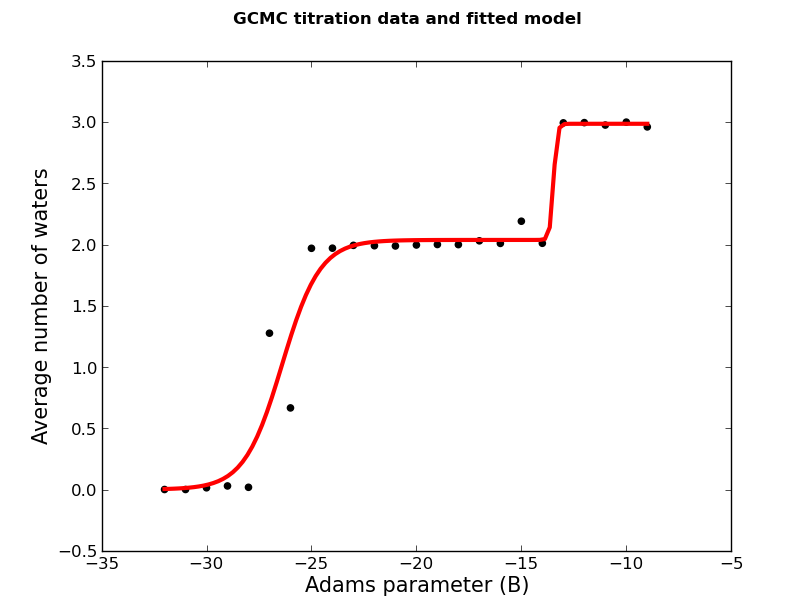
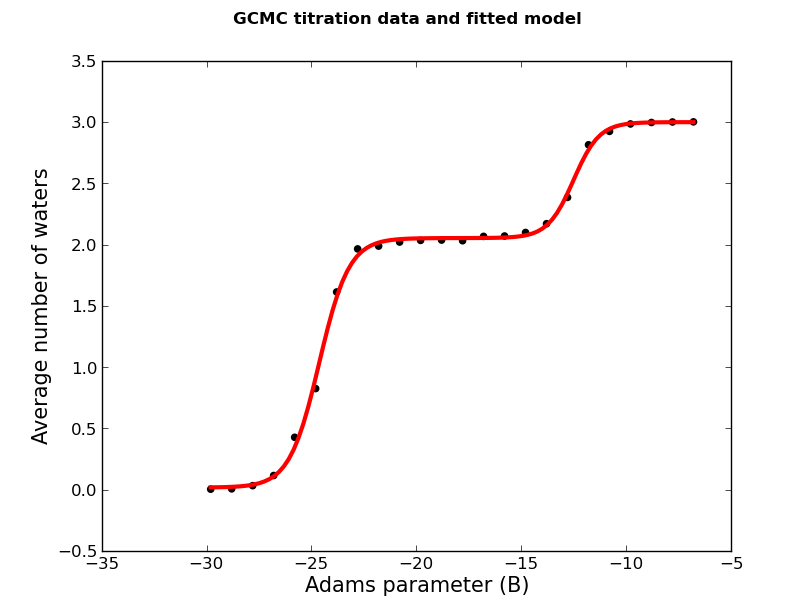
gcmc tutorial2 updated

Changed region(s): [[0.3695, 0.1863, 0.8621, 0.5588], [0.3079, 0.4967, 0.4002, 0.7761], [0.1847, 0.7451, 0.3387, 0.8072]]

diff --git a/tutorial/gcmc_binding_network/gcmc_titration.html b/tutorial/gcmc_binding_network/gcmc_titration.html
@@ -19,26 +19,34 @@ The protein has already been protonated and the atoms names have translated to t
 <h5>Setup</h5>
 Before running GCMC, you must carefully select the region where you'd like to perform GCMC. During the simulations, waters will be inserted and deleted within that region, and the free energy to add or remove waters can be calculated using grand canonical integration. Therefore, you should make sure the GCMC region covers the volume you're interested in. 
 <p>
-In <code>protein_pms.pdb</code>, a box centred at (32, 6.6, 1.7) whose sides have lengths (5.2, 5.0, 8.8) encompasses a small cavity. The aim is to use GCMC to calculate the total affinity of water for that site. We can create a box to these specifications by typing
+In <code>protein_pms.pdb</code>, a box centred at (31.5, 7.0, 2.0) whose sides have lengths (5.0, 4.0, 8.0) encompasses a small cavity. The aim is to use GCMC to calculate the total affinity of water for that site. We can create a box to these specifications by typing
 
 <p>
-<pre>python2.7 $PROTOMSHOME/tools/make_gcmcbox.py -b 32 6.6 1.7 5.2 5.0 8.8 -o gcmc_box.pdb</pre>
+<pre>python2.7 $PROTOMSHOME/tools/make_gcmcbox.py -b 31.5 7.0 2.0 5.0 4.0 8.0 -o gcmc_box.pdb</pre>
+<p>
+
+This creates a file called <code>gcmc_box.pdb</code> while outputting:
+<p>
+<pre>
+Volume of GCMC box: 160.0
+Bequil: -8.8
+</pre>
+<p>
+We need to know the volume of the GCMC box later for analysis, but will use <em>B<sub>equil</sub></em> to set up the simulation. <em>B<sub>equil</sub></em> is calculated using:
+<p>
+     <em>B<sub>equil</sub></em> = <em>&beta;&mu;'</em><sub>hyd</sub> + <em>ln(V/V<sup>o</sup>)</em>,
+<p>
+where <em>B<sub>equil</sub></em> is the Adams value that produces the equilibrium number of waters for the system. <em>&mu;'</em><sub>hyd</sub> is the excess chemical potential of bulk water, which is the hydration free energy of a single water molecule. In ProtoMS, previous analysis has found that <em>&mu;'</em><sub>hyd</sub> equals -6.2 kcal/mol. As the region specified by <code>gcmc_box.pdb</code> has a volume of 160 <span>&#8491;</span><sup>3</sup>, the above equation gives <em>B<sub>equil</sub></em> to be -8.8.
 <p>
 The box we've just created and the small cavity in the protein look like:<br>
 <img src="box.png" width="%" height="40%" alt="" /><br>
 <p>
 The figure shows a slice through the surface of the protein, and <code>gcmc_box.pdb</code> encompassing the small, sock-like cavity we're interested in.
 <p>
-As we wish to completely bind water to the volume specified by <code>gcmc_box.pdb</code>, we must run a series of GCMC simulations at different chemical potentials (Adams value in ProtoMS), within which the average number of inserted waters ranges from 0 to the number of waters that would occur if the subregion were allowed to exchange molecules with bulk water. A good low Adams value to start with is around -35. To estimate the highest Adams value, we'll need the relation 
+As we wish to completely bind water to the volume specified by <code>gcmc_box.pdb</code>, we must run a series of GCMC simulations at different chemical potentials (Adams value in ProtoMS), within which the average number of inserted waters ranges from 0 to the equilibrium number of waters for the system. As we know <em>B<sub>equil</sub></em> is -8.8, we want to chose a range of waters which encompasses this value towards its higher end. We will chose a range of -6.8 to -29.8, which will generate 24 B values. 
 <p>
-     <em>B*</em> = <em>&mu;'</em><sub>hyd</sub> + ln &lsaquo;<em>N*</em>&rsaquo;,
-<p>
-where <em>B*</em> is the Adams value that produces the equilibrium average number of waters &lsaquo;<em>N*</em>&rsaquo; and <em>&mu;'</em><sub>hyd</sub> is the excess chemical potential of bulk water, which is the hydration free energy of a single water molecule. In ProtoMS, previous analysis has found that <em>&mu;'</em><sub>hyd</sub> approximately equals -6.2 kcal/mol. Thus, all we need to do is guess a maximum value of &lsaquo;<em>N*</em>&rsaquo; to get an upper Adams value. As the region specified by <code>gcmc_box.pdb</code> can accommodate a maximum of about 5 waters, the above equations implies that <em>B*</em> &le; -8.  
 
-<p>
-Twenty-four cores were at our disposal for this tutorial. Therefore, we'll run GCMC simulations with Adams values at every integer between and including -32 and -9. To set-up the GCMC simulations, all we need to type is
-
-<pre>python2.7 $PROTOMSHOME/protoms.py -s gcmc -sc protein_pms.pdb --gcmcbox gcmc_box.pdb --adamsrange -32 -9</pre>
+<pre>python2.7 $PROTOMSHOME/protoms.py -s gcmc -sc protein_pms.pdb --gcmcbox gcmc_box.pdb --adams -29.8 -28.8 -27.8 -26.8 -25.8 -24.8 -23.8 -22.8 -21.8 -20.8 -19.8 -18.8 -17.8 -16.8 -15.8 -14.8 -13.8 -12.8 -11.8 -10.8 -9.8 -8.8 -7.8 -6.8</pre>
 
 This has automatically solvated our protein in a droplet of water (<code>water.pdb</code>) by randomly placing waters up to bulk density. Any solvent water that was placed inside <code>gcmc_box.pdb</code> has been removed to create <code>water_clr.pdb</code>.
 
@@ -51,111 +59,117 @@ To run the simulation, you need 24 cores and MPI. Execute by typing
 <h5>Analysis</h5>
 It is vital that you check the simulations by eye. If you have Pymol, you can check the output structures from one of the GCMC simulations by typing
 
-<pre> pymol out_gcmc/b_-9.000/all.pdb </pre>
+<pre> pymol out_gcmc/b_-8.800/all.pdb </pre>
 
 Check your <code>warning</code> files as well to make sure nothing untoward has happened.
 <p>
 
 Before calculating occupancies and free energies with grand canonical integration, we should check to see if the simulations are approximately equilibrated. For one simulation, we can see the average number of inserted GCMC waters for each snapshot by typing
 
-<pre>python2.7 $PROTOMSHOME/tools/calc_series.py -f out_gcmc/b_-9.000/results -s solventson </pre> 
+<pre>python2.7 $PROTOMSHOME/tools/calc_series.py -f out_gcmc/b_-8.800/results -s solventson </pre> 
 
 This would have produced an estimate for the start of the equilibrated period. Check to see if that value matches what you see in the graph that gets automatically plotted.
 <p>
 For the rest of this analysis, we'll focus on the script <code>calc_gci.py</code> which contains a lot of functionality. To see how the average number of waters varies with the applied chemical potential - in other words, a titration - type
 
 
-<pre>python2.7 $PROTOMSHOME/tools/calc_gci.py -d out_gcmc/b_-* -p titration </pre> 
+<pre>python2.7 $PROTOMSHOME/tools/calc_gci.py -d out_gcmc/b_-* -p titration  </pre> 
 
 Depending on what you found with <code>calc_series.py</code>, you can discard the first <code>X</code> snapshots of each simulation by additing the flag <code>--skip X</code>. The titration plot should look something like<br>
 
 <img src="gcmc_titration.png" width="%" height="50%" alt="" /><br>
 <p>
-
 The plot shows that the average number of waters at each Adams value occurs in 'steps', which is characteristic of all GCMC titration plots. Unlike the case when GCMC is performed on a cavity that can only bind a single water molecule (like <a href="../gcmc_single/gcmc_binding_calc.html">here</a>), the points of inflection of these steps do no necessarily correspond to free energies. As demonstrated in  <em>G. A. Ross et. al, Journal of the American Chemical Society, 2015</em>, it's actually the area under the titration curve that is related to the free energy to transfer water from ideal gas to the simulated system. 
 <p>
 To calculate the area under the titration curve, it is prudent to smooth over the data. The script <code>calc_gci.py</code> can fit a curve by modelling the titration data as sum of logistic functions, which is equivalent to a very simple type of artificial neural network (ANN). As the titration data shows what looks like 2 steps, we can input that into the model. To calculate the fit with 2 steps and plot it, type
 
-<pre>python2.7 $PROTOMSHOME/tools/calc_gci.py -d out_gcmc/b_-* -p fit -c fit --steps 2 </pre> 
+<pre>python2.7 $PROTOMSHOME/tools/calc_gci.py -d out_gcmc/b_-* -p fit -c fit --steps 2 -v 160</pre>
 
+Where <code>-v</code> is the volume of the GCMC region given by the <code>make_gcmcbox.py</code> script. This can also be calculated by looking at the <code>gcmc_box.pdb</code> file and determining the volume from the length of the x, y and z dimension. 
+<p>
 The result looks like<br>
 
 <img src="gcmc_fitted_titration.png" width="%" height="50%" alt="" /><br>
 <p>
+The line of best fit is shown in red. The fit correctly captures the shape of the titration data, and looks to be a good fit to all the data points. 
 
-The line of best fit is shown in red. The fit correctly captures the shape of the titration data, and looks good except for the plateau at 2 water molecules; the data point at B=-15 seems to have pulled the fitted plateau slightly higher than one would intuitively expect. This results from the fact the ANN was optimised by minimising the mean squared error, which is notorious for being overly influenced by outliers. We can try to improve the fit by trying to optimise a different "cost" function. The pseudo-Huber cost function puts less weight on outliers at the expense of an additional free parameter, denoted <em>c</em>. To use the pseudo-Huber cost function and to set <em>c</em>=0.1, we type
+To calculate the binding free energies of adding water to the cavity, type
 
-
-<pre>python2.7 $PROTOMSHOME/tools/calc_gci.py -d out_gcmc/b_-* -p fit -c fit --steps 2  --fit_options "cost huber c 0.1" </pre> 
-
-The new fit looks like this<br>
-
-<img src="gcmc_fitted_titration_huber.png" width="%" height="50%" alt="" /><br>
-<p>
-
-The fit is qualitatively similar to when mean squared error was used as the cost function, but the plateau at  &lsaquo;<em>N</em>&rsaquo;=2 is more cleanly represented. We'll ascertain whether the different fitting options will <em>quantitatively</em> affect the calculated free energies below.
-
-<p>
-
-To calculate the binding free energies of adding water to the cavity with the chosen fitted parameters, type
-
-<pre>python2.7 $PROTOMSHOME/tools/calc_gci.py -d out_gcmc/b_-* -c pmf --steps 2  --fit_options "cost huber c 0.1" </pre> 
+<pre>python2.7 $PROTOMSHOME/tools/calc_gci.py -d out_gcmc/b_-* -c pmf --steps 2 -v 160</pre> 
 
 where <code>-c pmf</code> indicates that the 'potential of mean force', i.e. the free energy, will be calculated. This will bring up a table like this one:
 
 <pre>
+FREE ENERGIES:
+  Quoted errors are from multiple repeats of the fitting.
           |----------------------IDEAL GAS TRANSFER FREE ENERGIES--------------------|   |-BINDING FREE ENERGIES-|
 '# Waters' 'Mean'  'Std. dev.'  '25th Percentile'       'Median'      '75th Percentile'    'Mean'        'Median'
   0.00      0.00      0.00            0.00                0.00               0.00            0.00           0.00
-  1.00    -16.07      0.15          -16.13              -16.12             -16.10           -9.87          -9.92
-  2.00    -31.57      0.15          -31.64              -31.61             -31.59          -19.17         -19.21
-  3.00    -40.30      0.18          -40.39              -40.32             -40.30          -21.70         -21.72
+  1.00    -16.24      0.01          -16.24              -16.24             -16.23          -10.04         -10.04
+  2.00    -31.33      0.01          -31.33              -31.33             -31.32          -18.93         -18.93
+  3.00    -40.01      0.01          -40.01              -40.01             -40.00          -21.41         -21.41
 </pre>
-
-The table shows the free energy (in kcal/mol) to transfer water from ideal gas (<code>IDEAL GAS TRANSFER FREE ENERGIES</code>) and from bulk water (<code>BINDING FREE ENERGIES</code>) to the GCMC box. The script <code>calc_gci.py</code> actually fits the ANN several times from different initial parameter values. The free energies are calculated for each fit, and from the ensemble of the calculated free energies the mean, standard deviation (<code>Std. dev</code>), and the 25th, 50th (<code>Median</code>), and 75th percentiles are calculated. When the titration data is particularly noisy, the median free energy is a more robust measure of the average free energy than the mean. The table indicates that the free energy to bind three waters from bulk water is -21.7 +/- 0.18 kcal/mol. 
 <p>
-If the ANN was fitted by minimising the mean-squared error, the calculated binding free energy for this example would be -21.9 +/- 0.0 kcal/mol. While only 0.2 kcal/mol off the value calculated with the pseudo-Huber cost function, the error estimate (0.0 kcal/mol) is woeful. A way to estimate the sensitivity of the free energy on the titration is to use bootstrap sampling. In each bootstrap sample, the titration data is randomly sampled with replacement, the ANN re-fit, and the free energy calculated. 
+The table shows the free energy (in kcal/mol) to transfer water from ideal gas (<code>IDEAL GAS TRANSFER FREE ENERGIES</code>) and from bulk water (<code>BINDING FREE ENERGIES</code>) to the GCMC box. The script <code>calc_gci.py</code> actually fits the ANN several times from different initial parameter values. The free energies are calculated for each fit, and from the ensemble of the calculated free energies the mean, standard deviation (<code>Std. dev</code>), and the 25th, 50th (<code>Median</code>), and 75th percentiles are calculated. When the titration data is particularly noisy, the median free energy is a more robust measure of the average free energy than the mean. The table indicates that the free energy to bind three waters from bulk water is -21.4 +/- 0.01 kcal/mol. 
+<p>
+A way to estimate the sensitivity of the free energy on the titration is to use bootstrap sampling. In each bootstrap sample, the titration data is randomly sampled with replacement, the ANN re-fit, and the free energy calculated. 
 <p>
 You should do as many bootstrap samples as possible, but this can take some time using the default fitting parameters. To speed up the bootstrapping, you can run just 1 random seed for each fit by typing <code>fit_options 'repeats 1'</code>. Also, you can save the ensemble of fitted ANNs using the <code>-o</code> flag. To do 1000 bootstrap samples, plot the fits with error bars, and save the ANNs, type
 
-<pre>python2.7 $PROTOMSHOME/tools/calc_gci.py -d out_gcmc/b_-* -p percentiles pmf -c pmf --steps 2  --fit_options "cost huber c 0.1 repeats 1" -b 1000 -o ANNs.pickle </pre> 
+<pre>python2.7 $PROTOMSHOME/tools/calc_gci.py -d out_gcmc/b_-* -p percentiles pmf -c pmf --steps 2 -v 160 -b 1000 -o ANNs.pickle </pre> 
 
 The output, <code>ANNs.pickle</code>, can be read in by <code>calc_gci.py</code> when you want to use the same fitted models again. The ensemble of titration fits looks like<br>
 
 <img src="fitted_ann_percentiles_1000boots.png" width="%" height="50%" alt="" /><br>
 
-The orange and grey areas indicate where 50% and 90%, respectively, of the bootstrapped fits lay. The error can be reduced by running more GCMC simulations, particularly with Adams values around the points of inflections. The table of free energies that corresponds to the boostrap sampling looks like
+The orange and grey areas indicate where 50% and 90%, respectively, of the bootstrapped fits lay. Here however, the titration data sits close to the fit, so only a small region of grey is visible around the red line. This analysis is helpful for systems that are less converged. The error can be reduced by running more GCMC simulations, particularly with Adams values around the points of inflections. The table of free energies that corresponds to the boostrap sampling looks like
 
 <pre>
+FREE ENERGIES:
+  Quoted errors are from 1000 bootstrap samples.
           |----------------------IDEAL GAS TRANSFER FREE ENERGIES--------------------|   |-BINDING FREE ENERGIES-|
 '# Waters' 'Mean'  'Std. dev.'  '25th Percentile'       'Median'      '75th Percentile'    'Mean'        'Median'
   0.00      0.00      0.00            0.00                0.00               0.00            0.00           0.00
-  1.00    -16.20      0.55          -16.51              -16.25             -15.69          -10.00         -10.05
-  2.00    -31.79      0.88          -32.49              -31.75             -31.08          -19.39         -19.35
-  3.00    -40.56      1.03          -41.21              -40.56             -39.91          -21.96         -21.96
+  1.00    -16.26      0.45          -16.31              -16.26             -16.20          -10.06         -10.06
+  2.00    -31.37      0.76          -31.45              -31.34             -31.25          -18.97         -18.94
+  3.00    -40.04      0.76          -40.12              -40.03             -39.91          -21.44         -21.43
 </pre>
-
-The error to transfer/bind 3 waters has now increased to about 1 kcal/mol. The binding free energy has been automatically plotted and looks like<br>
+The error to transfer/bind 3 waters has now increased to about 0.8 kcal/mol. The binding free energy has been automatically plotted and looks like<br>
 
 <img src="binding_free_energy_1000boots.png" width="%" height="50%" alt="" /><br>
 
-The blue and grey area show the 50% and 90% confidense intervals, respectively, of the calculated free energies. From this graph, it's clear that the minimum free energy state of the system is with three waters bound. Thus, three is the optimal number of waters for the region encompassed by <code>gcmc_box.pdb</code>.
+If there is larger variance in the boostrapping samples, blue and grey areas will be visible, showing the 50% and 90% confidence intervals, respectively, of the calculated free energies. From this graph, it's clear that the minimum free energy state of the system is with three waters bound. Thus, three is the optimal number of waters for the region encompassed by <code>gcmc_box.pdb</code>.
 
+The optimal water occupancy can also be calculated by looking at <em>B<sub>equil</sub></em>. The <em>B<sub>equil</sub></em> value should correspond to the optimal occupancy, shown in the setup section. As calculated previously, the volume of 160 <span>&#8491;</span><sup>3</sup> relates to a <em>B<sub>equil</sub></em> of -8.4. The water occupancy is calculated by determining the N value at the point where the fitted curve passes through <em>B<sub>equil</sub></em>. As this is dependent on the quality of the fit to the data, the average Nequil is also calculated as the average of simulated B values near to the <em>B<sub>equil</sub></em> value. 
 <p>
-To calculate the free energy to add a specific number of waters, say the free energy to bind 1 water when 2 are already bound, use the <code>--range</code> flag. We'll input the 1000 boostrap fits with the <code>-i</code> flag. We no longer need to specify the fitting options because the models have already been fitted. The binding free energy of the 3rd water can be calculated with
+<pre>
+B EQUILIBRIUM CONDITION FROM FITTED MODELS:
+Bequil: -8.8
+Number of molecules:  Mean   Std. dev   25th Percentile    50th Percentile   75th Percentile
+                      3.0      0.0            3.0              3.0                3.0
+B EQUILIBRIUM CONDITION FROM SIMULATED B VALUE:
+Bequil: -8.8
+Similar simulated B values: [-8.8]
+Average N* at simululated at B values: [-8.8] is 3.0
+</pre>
+<p>
+Both methods have calculated <em>N<sub>equil</sub></em> to be 3.0, which is consistent with the occupancy that minimises the binding free energy above. 
+<p>
+To calculate the free energy to add a specific number of waters, say the free energy to bind 1 water when 2 are already bound, use the <code>--range</code> flag. We'll input the 1000 boostrap fits with the <code>-i</code> flag. The binding free energy of the 3rd water can be calculated with
 
-<pre>python2.7 $PROTOMSHOME/tools/calc_gci.py -d out_gcmc/b_-* -c pmf -i ANNs.pickle --range 2 3 </pre> 
+<pre>python2.7 $PROTOMSHOME/tools/calc_gci.py -d out_gcmc/b_-* -c pmf -v 160 -i ANNs.pickle --range 2 3 </pre> 
 
 with the result
 
 <pre>
+FREE ENERGIES:
+  Quoted errors are from the input model(s).
           |----------------------IDEAL GAS TRANSFER FREE ENERGIES--------------------|   |-BINDING FREE ENERGIES-|
 '# Waters' 'Mean'  'Std. dev.'  '25th Percentile'       'Median'      '75th Percentile'    'Mean'        'Median'
   2.00      0.00      0.00            0.00                0.00               0.00            0.00           0.00
-  3.00     -9.31      0.17           -9.39               -9.31              -9.23           -3.11          -3.11
+  3.00    -10.65      0.11          -10.70              -10.65             -10.60           -4.45          -4.45
 </pre>
-
-Note how the uncertainty has signicantly decreased. This is because we need only evaluate a smaller area for the relative calculation. The above tables shows that the free energy to bind the third and last water is -3.11 +/- 0.17 kcal/mol. 
+Note how the uncertainty has signicantly decreased. This is because we need only evaluate a smaller area for the relative calculation. The above tables shows that the free energy to bind the third and last water is -4.45 +/- 0.11 kcal/mol. 
 
 <h4>Written by Gregory A. Ross, 2015.</h4>
 </BODY>
